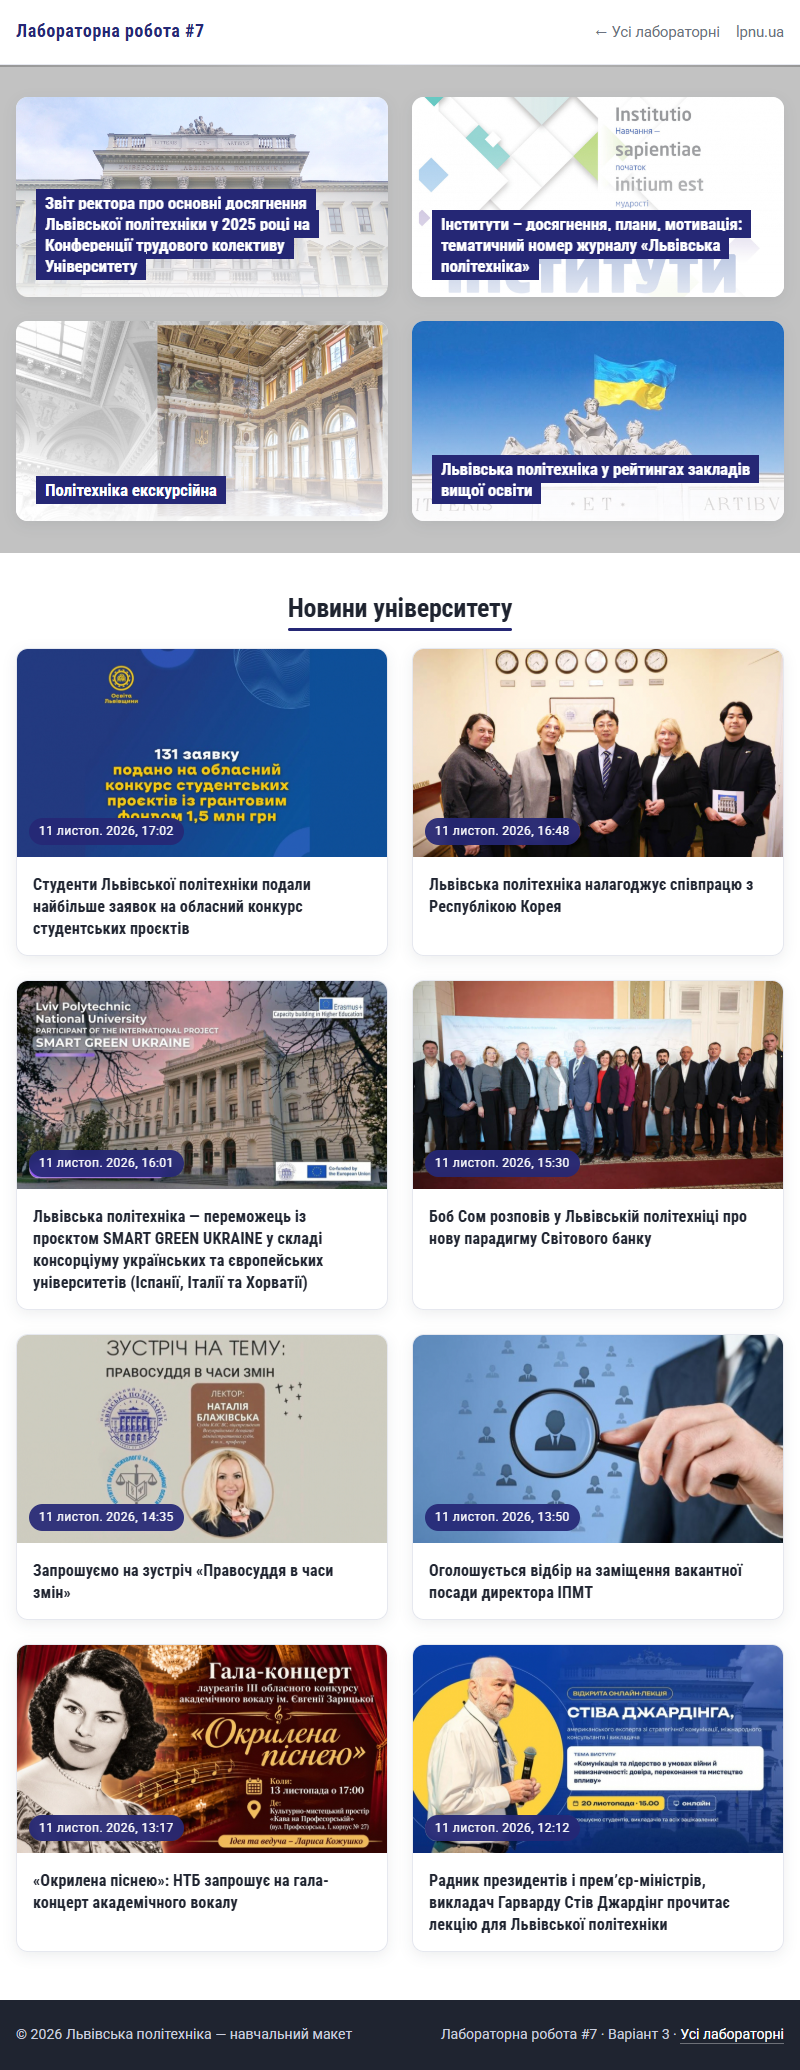
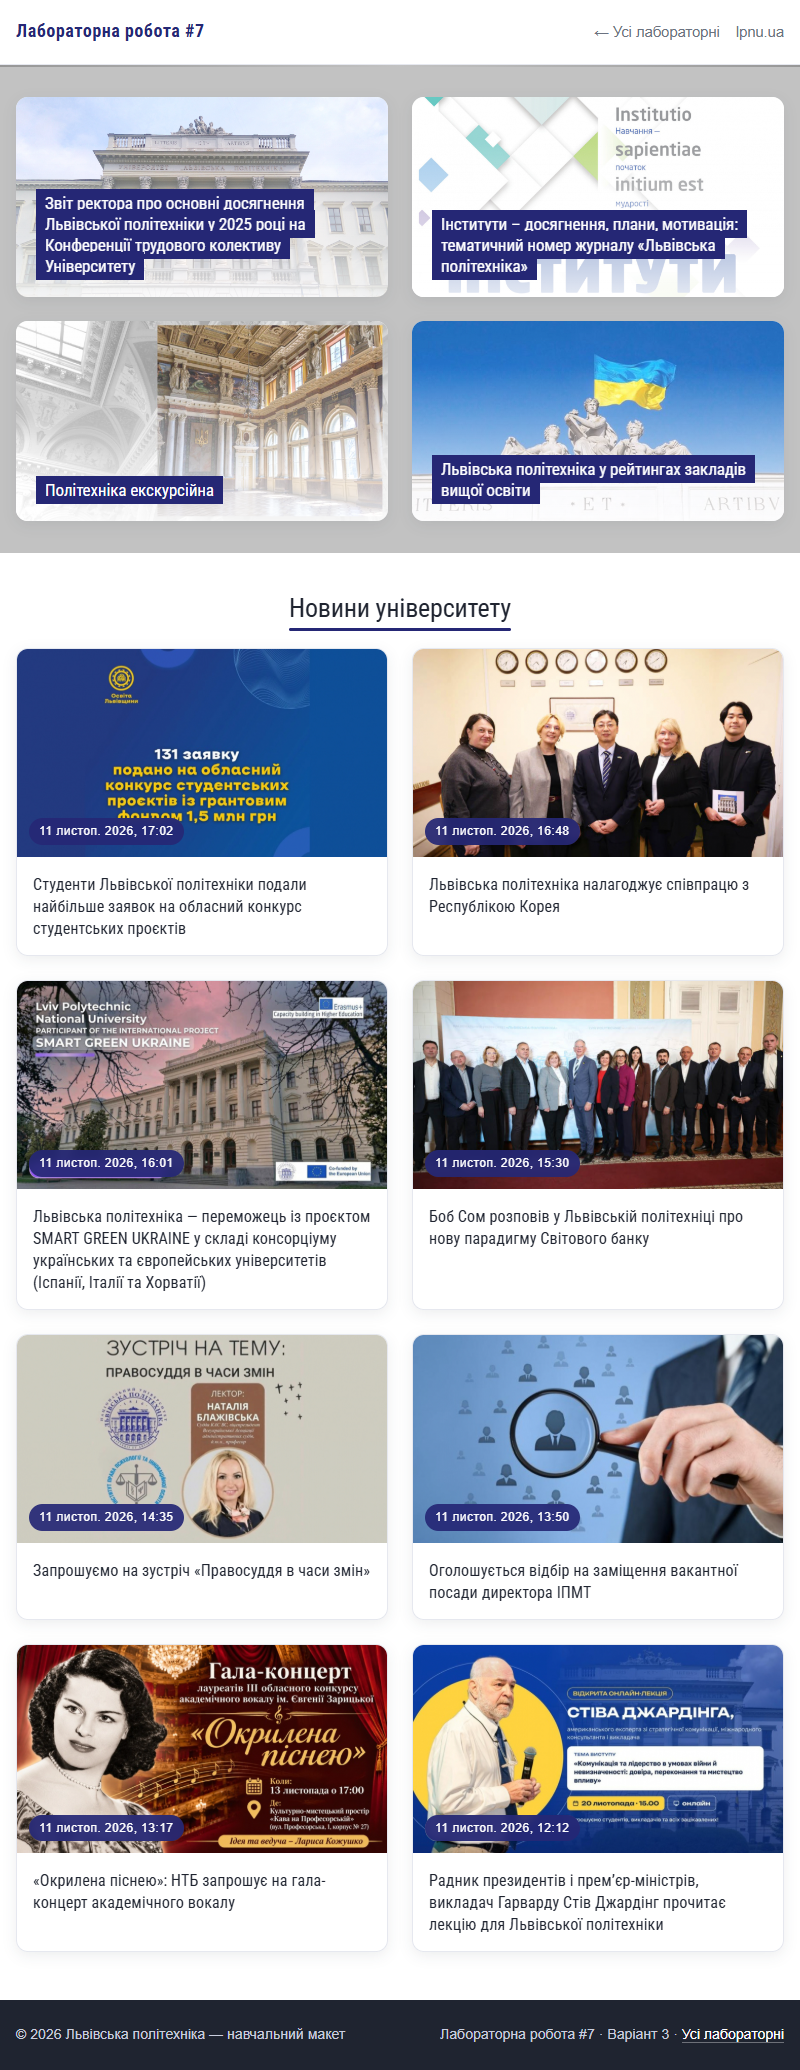
lab7: match lab5 typography (Roboto Condensed + Bootstrap body font)

diff --git a/lab7/css/styles.css b/lab7/css/styles.css
@@ -38,7 +38,7 @@ body {
     min-width: 320px;
     background: var(--page-bg);
     color: var(--ink);
-    font-family: "Roboto", "Segoe UI", Arial, sans-serif;
+    font-family: "Helvetica Neue", Helvetica, Arial, sans-serif;
     font-size: 16px;
     line-height: 1.5;
     -webkit-font-smoothing: antialiased;
@@ -101,7 +101,7 @@ a:focus-visible {
 
 .topbar-brand {
     color: var(--brand);
-    font-family: "Roboto Condensed", "Roboto", sans-serif;
+    font-family: 'Roboto Condensed', sans-serif;
     font-size: 1.15rem;
     font-weight: 700;
     letter-spacing: .02em;
@@ -218,9 +218,10 @@ a:focus-visible {
     margin: 0;
     padding: 20px;
     color: #fff;
-    font-family: "Roboto Condensed", "Roboto", sans-serif;
+    font-family: 'Roboto Condensed', sans-serif;
     font-size: clamp(1.05rem, 1.5vw, 1.35rem);
-    font-weight: 700;
+    font-style: normal;
+    font-weight: normal;
     line-height: 1.25;
 }
 
@@ -268,8 +269,10 @@ main {
 
 .view-header h2 {
     margin: 0;
-    font-family: "Roboto Condensed", "Roboto", sans-serif;
+    font-family: 'Roboto Condensed', sans-serif;
     font-size: clamp(1.6rem, 2.8vw, 2.3rem);
+    font-style: normal;
+    font-weight: normal;
     line-height: 1.2;
 }
 
@@ -374,9 +377,10 @@ main {
 .news-card h3 {
     margin: 0;
     padding: 16px;
-    font-family: "Roboto Condensed", "Roboto", sans-serif;
+    font-family: 'Roboto Condensed', sans-serif;
     font-size: 1.02rem;
-    font-weight: 700;
+    font-style: normal;
+    font-weight: normal;
     line-height: 1.35;
     transition: color .3s var(--ease);
 }

diff --git a/lab7/index.html b/lab7/index.html
@@ -11,7 +11,7 @@
     <link rel="preconnect" href="https://fonts.googleapis.com">
     <link rel="preconnect" href="https://fonts.gstatic.com" crossorigin>
     <link rel="stylesheet"
-          href="https://fonts.googleapis.com/css2?family=Roboto+Condensed:wght@400;700&family=Roboto:wght@400;500;700&display=swap">
+          href="https://fonts.googleapis.com/css?family=Roboto+Condensed:regular,700&amp;subset=cyrillic,cyrillic-ext">
     <link rel="stylesheet" href="css/styles.css">
 </head>
 
